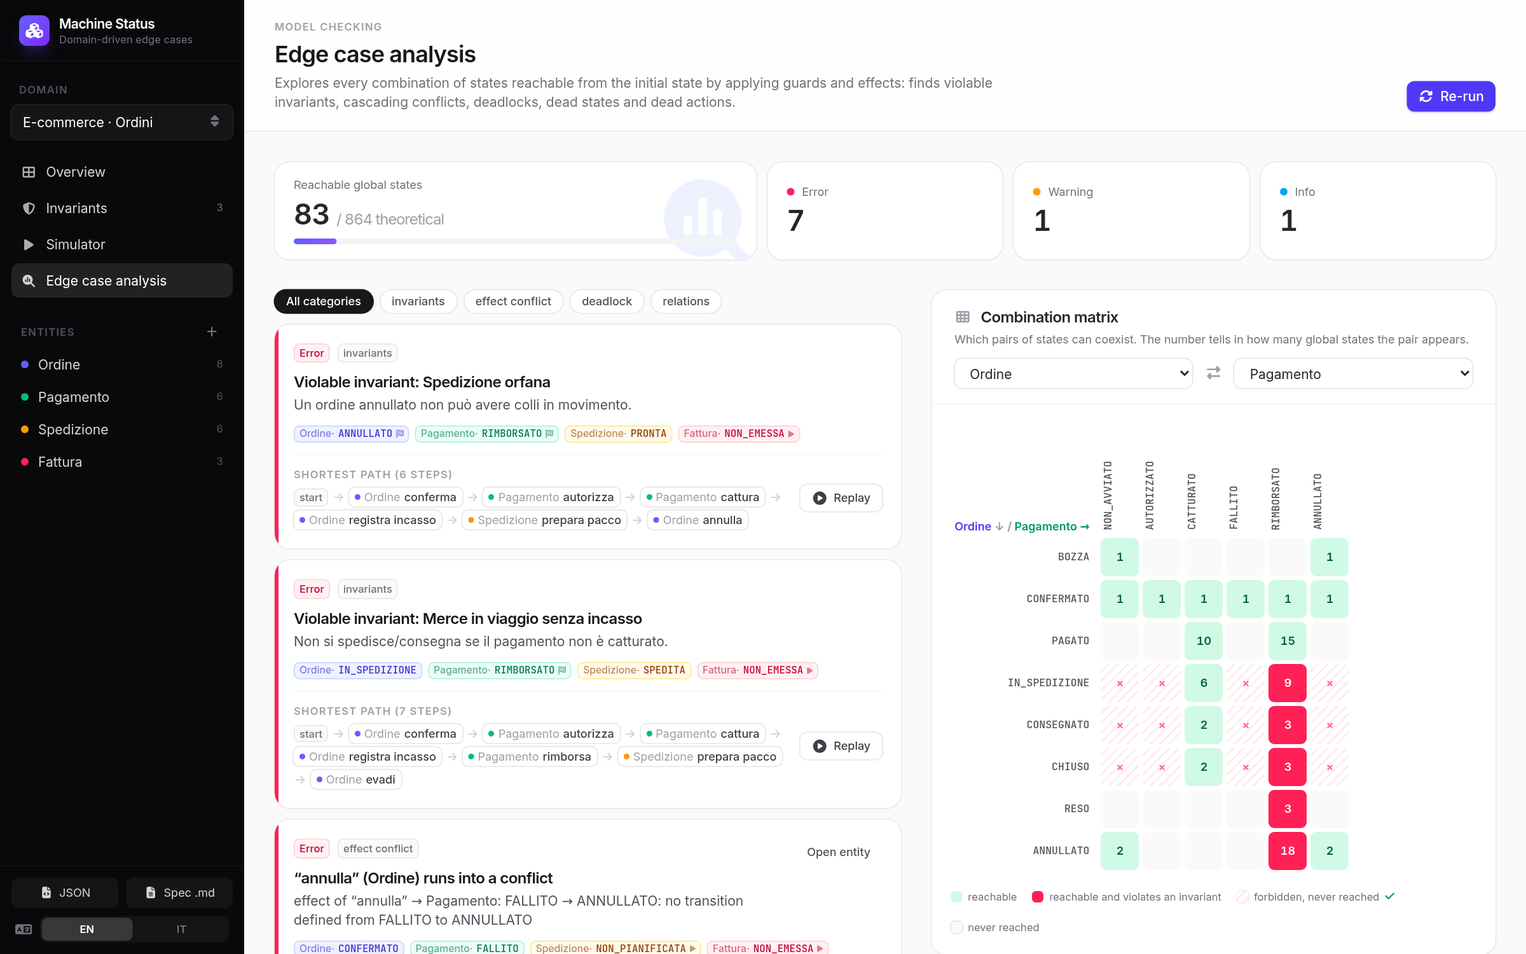
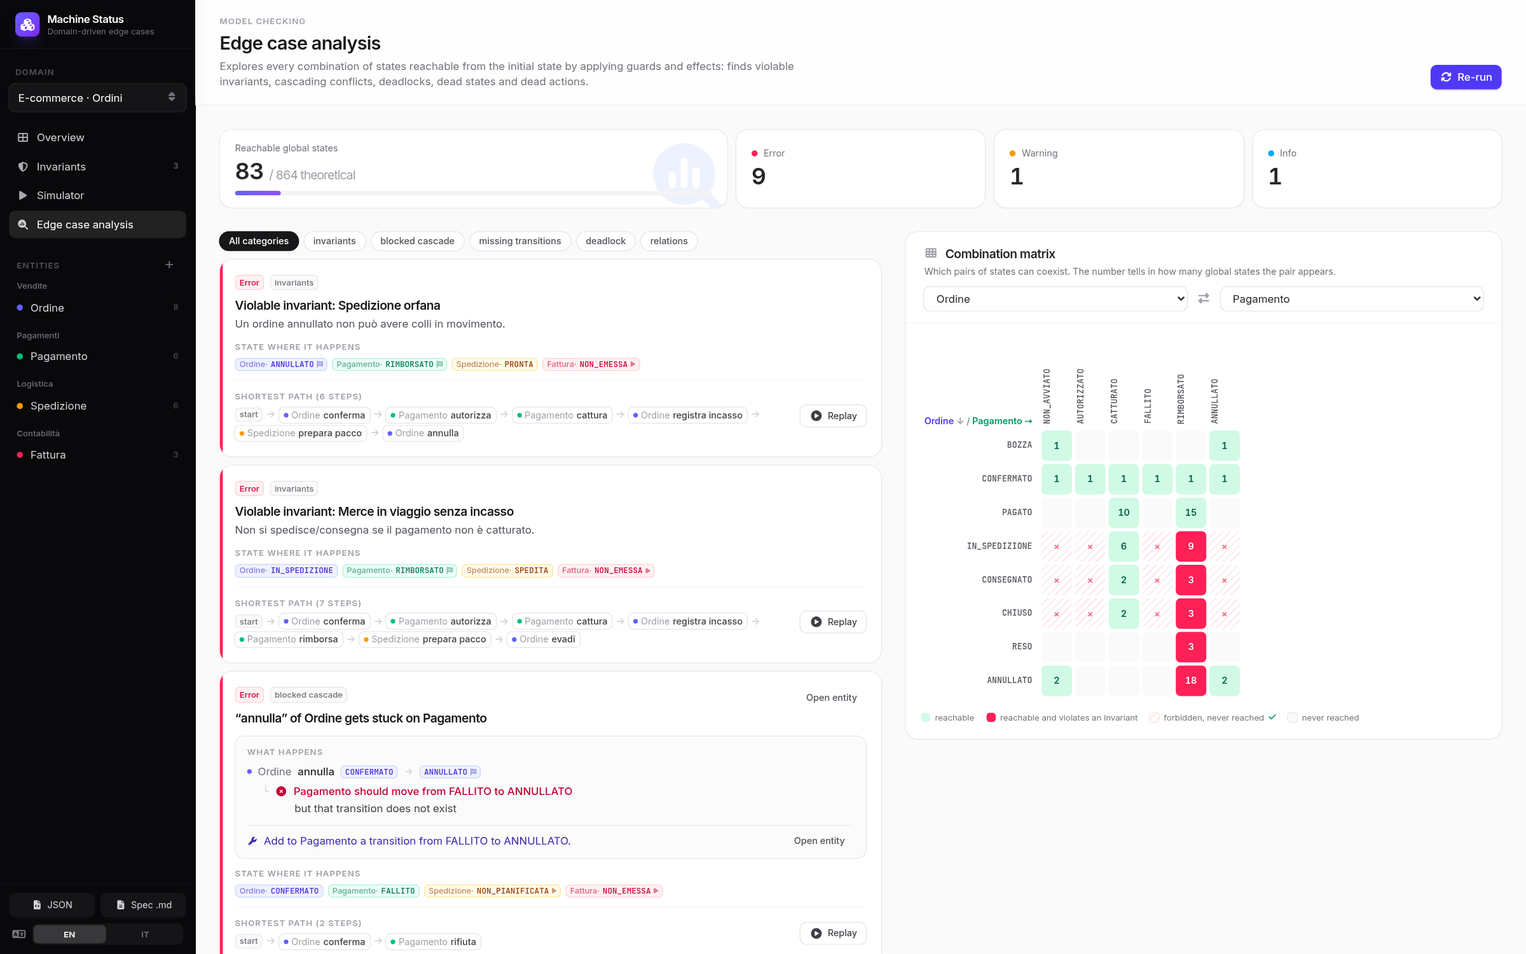
Clearer blocked-cascade messages with suggested fixes
Conflicts now read as a sentence (what should happen, but why it can't)
and carry a fix computed by the engine, naming the entity to change.
The entity page shows a loader while the analysis runs. Screenshots and
README updated.

diff --git a/frontend/src/views/EntityView.vue b/frontend/src/views/EntityView.vue
@@ -1,7 +1,7 @@
 <script setup>
 import { computed, ref, watch } from 'vue'
 import { useRoute, useRouter } from 'vue-router'
-import { store, api, reloadModel, mutate, entity, ename, sname, stateById, toast, isCreatable, goneStates, offStates } from '../store'
+import { store, api, reloadModel, mutate, entity, ename, sname, toast, isCreatable, goneStates, offStates } from '../store'
 import { pal, KINDS, COLORS, PALETTE } from '../colors'
 import { t } from '../i18n'
 import { stateDiagram, contextMap, neighborhood } from '../diagrams'
@@ -200,11 +200,19 @@ const incoming = computed(() => {
 
 // ---------- errori dell'analisi che riguardano questa entità ----------
 const errors = ref([])
-watch(() => [m.value, e.value?.id], async () => {
-  const id = e.value?.id
+const analyzing = ref(false)
+let analysisRun = 0
+watch(() => [m.value, e.value?.id], async ([, id], old) => {
   if (!id) return
-  const { issues } = await api.get(`/domains/${m.value.id}/analysis`)
-  if (id === e.value?.id) errors.value = issues.filter((i) => i.severity === 'error' && i.entity_ids.includes(id))
+  if (id !== old?.[1]) errors.value = [] // cambiando entità non restano gli errori di quella di prima
+  const run = ++analysisRun
+  analyzing.value = true
+  try {
+    const { issues } = await api.get(`/domains/${m.value.id}/analysis`)
+    if (run === analysisRun) errors.value = issues.filter((i) => i.severity === 'error' && i.entity_ids.includes(id))
+  } finally {
+    if (run === analysisRun) analyzing.value = false
+  }
 }, { immediate: true })
 // transizioni mancanti: effetti a cascata di altre entità che qui non trovano una transizione
 const missing = computed(() => errors.value.filter((i) => i.category === 'missing_transition' && i.entity_id === e.value.id))
@@ -217,13 +225,11 @@ const otherErrors = computed(() => {
     if (i.category === 'missing_transition') continue
     // conflitto dovuto a una transizione mancante qui: è già nella lista sopra
     if (i.conflict?.gap && missing.value.some((x) => sameGap(x.gap, i.conflict.gap))) continue
-    const text = i.category === 'deadlock' ? '' : plain(i.conflict ? `${i.conflict.what}: ${i.conflict.reason}` : i.detail)
+    const text = i.category === 'deadlock' ? '' : plain(i.conflict ? `${i.conflict.what}, ${i.conflict.reason}` : i.detail)
     const key = `${i.category}|${plain(i.title)}|${text}`
     const row = rows.get(key)
-    // la figlia è già in uno stato finale: si sistema sull'effetto del padre, con "ignora se già finale"
-    const skipFinal = !!i.conflict?.gap && !!stateById(i.conflict.gap.from)?.is_final
     if (row) row.count++
-    else rows.set(key, { key, category: i.category, title: plain(i.title), text, count: 1, fixAt: skipFinal ? i.entity_id : null })
+    else rows.set(key, { key, category: i.category, title: plain(i.title), text, count: 1, fix: i.conflict?.fix && { ...i.conflict.fix, text: plain(i.conflict.fix.text) } })
   }
   return [...rows.values()]
 })
@@ -325,11 +331,15 @@ const guardText = (g) =>
     <div v-else class="p-8 grid gap-6 xl:grid-cols-5">
       <div class="xl:col-span-3 space-y-6">
         <!-- ERRORI DELL'ANALISI SU QUESTA ENTITÀ -->
+        <div v-if="analyzing && !errorCount" class="card px-6 py-3.5 flex items-center gap-3 text-sm text-zinc-500">
+          <i class="fa-solid fa-circle-notch fa-spin fa-fw text-[14px] text-indigo-500" />{{ $t('entity.errors.loading') }}
+        </div>
         <section v-if="errorCount" class="card overflow-hidden ring-1 ring-rose-200">
           <div class="flex items-center gap-4 px-6 py-4 border-b border-rose-100 bg-rose-50/60">
             <div class="flex-1">
               <h2 class="font-semibold tracking-tight flex items-center gap-2 text-rose-900">
                 <i class="fa-solid fa-circle-exclamation fa-fw text-[13px] text-rose-500" />{{ $t('entity.errors.title', errorCount) }}
+                <i v-if="analyzing" class="fa-solid fa-circle-notch fa-spin fa-fw text-[12px] text-rose-400" :title="$t('entity.errors.loading')" />
               </h2>
               <p class="text-xs text-rose-800/80">{{ $t('entity.errors.hint') }}</p>
             </div>
@@ -371,13 +381,14 @@ const guardText = (g) =>
                 <span v-if="x.count > 1" class="text-xs text-zinc-400 tabular-nums">×{{ x.count }}</span>
               </div>
               <p v-if="x.text" class="text-xs text-zinc-500 mt-1">{{ x.text }}</p>
-              <p v-if="x.fixAt" class="text-xs text-indigo-700 mt-1 flex items-center gap-1.5 flex-wrap">
-                <i class="fa-solid fa-wrench fa-fw text-[10px]" />
-                <template v-if="x.fixAt === e.id">{{ $t('entity.errors.fixHere', { flag: $t('entity.effect.skipFinal') }) }}</template>
-                <i18n-t v-else scope="global" keypath="entity.errors.fixAt" tag="span">
-                  <template #entity><RouterLink :to="`/d/${m.id}/entity/${x.fixAt}`" class="font-medium underline">{{ ename(x.fixAt) }}</RouterLink></template>
-                  <template #flag>{{ $t('entity.effect.skipFinal') }}</template>
-                </i18n-t>
+              <p v-if="x.fix" class="text-xs text-indigo-700 mt-1 flex items-start gap-1.5">
+                <i class="fa-solid fa-wrench fa-fw text-[10px] mt-[3px] shrink-0" />
+                <span>
+                  {{ x.fix.text }}
+                  <RouterLink v-if="x.fix.entity_id !== e.id" :to="`/d/${m.id}/entity/${x.fix.entity_id}`" class="font-medium underline whitespace-nowrap">
+                    {{ $t('analysis.openEntity') }}
+                  </RouterLink>
+                </span>
               </p>
             </div>
           </div>

diff --git a/frontend/src/views/AnalysisView.vue b/frontend/src/views/AnalysisView.vue
@@ -187,6 +187,13 @@ watch(locale, () => { run(); loadMatrix() })
                 </ul>
               </div>
             </div>
+            <!-- come si risolve, e su quale entità -->
+            <div v-if="i.conflict.fix" class="mt-3 pt-2.5 border-t border-zinc-200/70 flex items-start gap-2 text-sm text-indigo-800">
+              <i class="fa-solid fa-wrench fa-fw text-[11px] mt-[5px] shrink-0" />
+              <span class="flex-1">{{ i.conflict.fix.text }}</span>
+              <RouterLink v-if="i.conflict.fix.entity_id !== i.entity_id" :to="`/d/${m.id}/entity/${i.conflict.fix.entity_id}`"
+                          class="btn-ghost !text-xs !py-0.5 shrink-0">{{ $t('analysis.openEntity') }}</RouterLink>
+            </div>
           </div>
           <div v-if="i.state" class="mt-3">
             <div class="eyebrow mb-1.5">{{ $t('analysis.reachedState') }}</div>

diff --git a/backend/app/engine.py b/backend/app/engine.py
@@ -163,14 +163,24 @@ class Engine:
     def rule_notes(self, t: dict) -> list[str]:
         return [g["description"] for g in t["guards"] if g["kind"] == "rule" and g["description"]]
 
-    def _conflict(self, t: dict, what: str, eid, depth: int, reason: str, details=(), gap=None) -> dict:
+    def _conflict(self, t: dict, what: str, eid, depth: int, reason: str, details=(), gap=None, fix=None) -> dict:
         """Conflitto strutturato: quale effetto di t (what) non riesce e perché (reason, details = guardie che bloccano).
-        gap: la transizione che manca all'entità coinvolta ({"from", "to"} oppure {"from", "action"})."""
-        effect = self.t("effect.label", action=t["action"], what=what)
+        gap: la transizione che manca all'entità coinvolta ({"from", "to"} oppure {"from", "action"}).
+        fix: (chiave, entità su cui intervenire, parametri) del suggerimento; con un gap si ricava da solo."""
+        if gap and fix is None:
+            src = self.sname(gap["from"])
+            if self.is_final(gap["from"]):
+                # l'entità è già conclusa: non le manca nulla, è l'effetto che non dovrebbe toccarla
+                fix = ("fix.skip_final", t["entity_id"], {"action": t["action"]})
+            elif gap.get("action"):
+                fix = ("fix.add_action", eid, {"name": gap["action"], "src": src})
+            else:
+                fix = ("fix.add_transition", eid, {"src": src, "dst": self.sname(gap["to"])})
         details = list(details)
-        message = self.t("effect.conflict", effect=effect, reason=reason) + (f" — {'; '.join(details)}" if details else "")
+        message = self.t("effect.conflict", action=t["action"], what=what, reason=reason) + (f" — {'; '.join(details)}" if details else "")
         return {"message": message, "trigger_id": t["id"], "entity_id": eid, "depth": depth + 1,
-                "what": what, "reason": reason, "details": details, "gap": gap}
+                "what": what, "reason": reason, "details": details, "gap": gap,
+                "fix": fix and {"text": self.t(fix[0], entity=self.ename(fix[1]), **fix[2]), "entity_id": fix[1]}}
 
     def fire(self, t: dict, state: dict, depth: int = 0, chain: frozenset = frozenset()):
         """Esegue t e propaga gli effetti. Ritorna (nuovo_stato, passi, conflitti); i conflitti sono dict (vedi _conflict)."""
@@ -213,8 +223,7 @@ class Engine:
             forced = {"transition_id": None, "entity_id": eid, "action": self.t("step.forced"),
                       "from": cur, "to": target, "depth": depth + 1, "forced": True}
             if not cands:
-                conflicts.append(self._conflict(t, what, eid, depth, self.t("effect.no_transition", src=self.sname(cur), dst=self.sname(target)),
-                                                gap={"from": cur, "to": target}))
+                conflicts.append(self._conflict(t, what, eid, depth, self.t("effect.no_transition"), gap={"from": cur, "to": target}))
                 new[eid] = target
                 steps.append(forced)
                 continue
@@ -226,12 +235,14 @@ class Engine:
                     break
                 why += f
             if chosen is None:
-                conflicts.append(self._conflict(t, what, eid, depth, self.t("effect.blocked", action=cands[0]["action"]), why))
+                conflicts.append(self._conflict(t, what, eid, depth, self.t("effect.blocked", action=cands[0]["action"]), why,
+                                                fix=("fix.guard", eid, {"name": cands[0]["action"]})))
                 new[eid] = target
                 steps.append(forced)
                 continue
             if chosen["id"] in chain or depth >= MAX_CASCADE_DEPTH:
-                conflicts.append(self._conflict(t, what, eid, depth, self.t("effect.cycle_on", action=chosen["action"])))
+                conflicts.append(self._conflict(t, what, eid, depth, self.t("effect.cycle_on", action=chosen["action"]),
+                                                fix=("fix.cycle", eid, {"action": chosen["action"]})))
                 continue
             new, sub_steps, sub_conf = self.fire(chosen, new, depth + 1, chain)
             steps += sub_steps
@@ -263,12 +274,14 @@ class Engine:
             else:
                 ok.append(c)
         if not ok:
-            return state, [], [self._conflict(t, what, eid, depth, self.t("effect.blocked", action=name), why)]
+            return state, [], [self._conflict(t, what, eid, depth, self.t("effect.blocked", action=name), why,
+                                              fix=("fix.guard", eid, {"name": name}))]
         if len(ok) > 1:
             names = ", ".join(self.sname(c["to_state_id"]) for c in ok)
-            return state, [], [self._conflict(t, what, eid, depth, self.t("effect.action_ambiguous", state=self.sname(cur), targets=names))]
+            return state, [], [self._conflict(t, what, eid, depth, self.t("effect.action_ambiguous", state=self.sname(cur), targets=names),
+                                              fix=("fix.ambiguous", eid, {}))]
         if ok[0]["id"] in chain or depth >= MAX_CASCADE_DEPTH:
-            return state, [], [self._conflict(t, what, eid, depth, self.t("effect.cycle"))]
+            return state, [], [self._conflict(t, what, eid, depth, self.t("effect.cycle"), fix=("fix.cycle", eid, {"action": name}))]
         return self.fire(ok[0], state, depth + 1, chain)
 
     def _fire_creation(self, t: dict, eff: dict, state: dict, depth: int, chain: frozenset):
@@ -281,7 +294,7 @@ class Engine:
                              "from": state[eid], "to": state[eid], "depth": depth + 1, "skipped": True}], []
         creations = [c for c in self.entity[eid]["transitions"] if is_create(c)]
         if not creations:
-            return state, [], [self._conflict(t, what, eid, depth, self.t("effect.no_creations"))]
+            return state, [], [self._conflict(t, what, eid, depth, self.t("effect.no_creations"), fix=("fix.add_creation", eid, {}))]
         ok, why = [], []
         for c in creations:
             f = self.guard_failures(c, state)
@@ -290,12 +303,15 @@ class Engine:
             else:
                 ok.append(c)
         if not ok:
-            return state, [], [self._conflict(t, what, eid, depth, self.t("effect.no_creation_possible"), why)]
+            return state, [], [self._conflict(t, what, eid, depth, self.t("effect.no_creation_possible"), why,
+                                              fix=("fix.guard", eid, {"name": creations[0]["action"]}))]
         if len(ok) > 1:
             names = ", ".join(f"{self.t('q', x=c['action'])} → {self.sname(c['to_state_id'])}" for c in ok)
-            return state, [], [self._conflict(t, what, eid, depth, self.t("effect.creations_ambiguous", options=names))]
+            return state, [], [self._conflict(t, what, eid, depth, self.t("effect.creations_ambiguous", options=names),
+                                              fix=("fix.ambiguous", eid, {}))]
         if ok[0]["id"] in chain or depth >= MAX_CASCADE_DEPTH:
-            return state, [], [self._conflict(t, what, eid, depth, self.t("effect.cycle_on", action=ok[0]["action"]))]
+            return state, [], [self._conflict(t, what, eid, depth, self.t("effect.cycle_on", action=ok[0]["action"]),
+                                              fix=("fix.cycle", eid, {"action": ok[0]["action"]}))]
         return self.fire(ok[0], state, depth + 1, chain)
 
     def triggers(self, t: dict) -> list[dict]:
@@ -631,8 +647,10 @@ class Engine:
             t = dyn.transition[c["transition_id"]]
             # passi davvero eseguiti prima del conflitto (senza quelli forzati o saltati) e il punto in cui si blocca
             done = [x for x in c["steps"] if not x.get("forced") and not x.get("skipped")]
+            if c["conflict"].get("fix"):
+                c["conflict"]["fix"]["entity_id"] = base(c["conflict"]["fix"]["entity_id"])
             add("error", "effect_conflict", "a.conflict", detail=c["message"],
-                params={"action": t["action"], "entity": dyn.ename(t["entity_id"])},
+                params={"action": t["action"], "entity": dyn.ename(t["entity_id"]), "target": dyn.ename(c["conflict"]["entity_id"])},
                 transition_id=t.get("base_id", t["id"]), entity_id=base(t["entity_id"]), state=c["state"], trace=c["trace"],
                 conflict=c["conflict"], cascade=done, entity_ids=[base(t["entity_id"]), base(c["conflict"]["entity_id"])])
         issues += self._missing_transitions(dyn, ex["conflicts"], labels)

diff --git a/backend/app/i18n.py b/backend/app/i18n.py
@@ -25,20 +25,27 @@ MESSAGES = {
         "step.missing_action": "(non esiste, «{action}» ignorata)",
         "step.already_exists": "(esiste già, nuova istanza non simulata)",
         # effetti a cascata
-        "effect.label": "effetto «{action}» → {what}",
-        "effect.conflict": "{effect}: {reason}",
-        "effect.what_state": "{entity} deve passare da {src} a {dst}",
-        "effect.what_action": "{entity} deve eseguire «{name}»",
-        "effect.what_create": "{entity} deve nascere",
-        "effect.no_transition": "nessuna transizione definita da {src} a {dst}",
-        "effect.blocked": "«{action}» è bloccata",
-        "effect.cycle_on": "ciclo di effetti a cascata su «{action}»",
-        "effect.cycle": "ciclo di effetti a cascata",
-        "effect.action_unavailable": "da {state} l'azione non è disponibile",
-        "effect.action_ambiguous": "da {state} porta in più stati ({targets}): ambiguo",
-        "effect.no_creations": "non ha azioni di creazione",
-        "effect.no_creation_possible": "nessuna creazione è possibile",
-        "effect.creations_ambiguous": "più creazioni sono possibili insieme ({options}): stato di nascita ambiguo",
+        "effect.conflict": "«{action}»: {what}, {reason}",
+        "effect.what_state": "{entity} dovrebbe passare da {src} a {dst}",
+        "effect.what_action": "{entity} dovrebbe eseguire «{name}»",
+        "effect.what_create": "{entity} dovrebbe nascere",
+        "effect.no_transition": "ma questa transizione non esiste",
+        "effect.blocked": "ma le guardie di «{action}» lo impediscono",
+        "effect.cycle_on": "ma «{action}» rimette in moto la stessa cascata all'infinito",
+        "effect.cycle": "ma gli effetti si richiamano a vicenda all'infinito",
+        "effect.action_unavailable": "ma da {state} quell'azione non esiste",
+        "effect.action_ambiguous": "ma da {state} quell'azione porta in più stati ({targets}) e non si sa quale scegliere",
+        "effect.no_creations": "ma non ha azioni di creazione",
+        "effect.no_creation_possible": "ma le guardie impediscono ogni creazione",
+        "effect.creations_ambiguous": "ma sono possibili più creazioni insieme ({options}) e non si sa in che stato nasce",
+        # come si risolve un conflitto
+        "fix.skip_final": "Su {entity}, attiva «ignora se già finale» sull'effetto di «{action}»: l'entità coinvolta è già conclusa e va lasciata com'è.",
+        "fix.add_transition": "Aggiungi a {entity} una transizione da {src} a {dst}.",
+        "fix.add_action": "Su {entity}, fai partire «{name}» anche da {src}.",
+        "fix.guard": "Rivedi le guardie di «{name}» su {entity}: durante la cascata vedono gli stati già aggiornati dalle azioni precedenti.",
+        "fix.cycle": "Togli uno degli effetti che si richiamano a vicenda, a partire da «{action}» su {entity}.",
+        "fix.ambiguous": "Su {entity}, rendi le guardie delle azioni alternative mutuamente esclusive.",
+        "fix.add_creation": "Aggiungi a {entity} un'azione di creazione.",
         # simulatore
         "eval.exists": "{entity} esiste già",
         "eval.is_in": "{entity} è in {state}",
@@ -83,7 +90,7 @@ MESSAGES = {
         "a.broken_invariant.detail": "Una condizione usa uno stato eliminato dal modello (appare come ∅): l'invariante non controlla quello che ci si aspetta. Modificala e scegli di nuovo gli stati.",
         "a.violable.title": "Invariante violabile: {name}",
         "a.violable.detail": "Esiste una sequenza di azioni che porta a una combinazione di stati vietata.",
-        "a.conflict.title": "«{action}» ({entity}) va in conflitto",
+        "a.conflict.title": "«{action}» di {entity} si blocca su {target}",
         "a.missing_transition.title": "{entity}: manca la transizione da {src} a {dst}",
         "a.missing_transition.detail": "Serve agli effetti a cascata di {by}.",
         "a.missing_action.title": "{entity}: «{action}» non parte da {src}",
@@ -177,20 +184,26 @@ MESSAGES = {
         "step.forced": "(forced)",
         "step.missing_action": "(does not exist, “{action}” ignored)",
         "step.already_exists": "(already exists, new instance not simulated)",
-        "effect.label": "effect of “{action}” → {what}",
-        "effect.conflict": "{effect}: {reason}",
-        "effect.what_state": "{entity} must move from {src} to {dst}",
-        "effect.what_action": "{entity} must run “{name}”",
-        "effect.what_create": "{entity} must be created",
-        "effect.no_transition": "no transition defined from {src} to {dst}",
-        "effect.blocked": "“{action}” is blocked",
-        "effect.cycle_on": "cascading effect cycle on “{action}”",
-        "effect.cycle": "cascading effect cycle",
-        "effect.action_unavailable": "the action is not available from {state}",
-        "effect.action_ambiguous": "from {state} it leads to several states ({targets}): ambiguous",
-        "effect.no_creations": "it has no creation actions",
-        "effect.no_creation_possible": "no creation is possible",
-        "effect.creations_ambiguous": "several creations are possible at once ({options}): ambiguous initial state",
+        "effect.conflict": "“{action}”: {what}, {reason}",
+        "effect.what_state": "{entity} should move from {src} to {dst}",
+        "effect.what_action": "{entity} should run “{name}”",
+        "effect.what_create": "{entity} should be created",
+        "effect.no_transition": "but that transition does not exist",
+        "effect.blocked": "but the guards of “{action}” prevent it",
+        "effect.cycle_on": "but “{action}” sets off the same cascade forever",
+        "effect.cycle": "but the effects keep triggering each other forever",
+        "effect.action_unavailable": "but that action does not exist from {state}",
+        "effect.action_ambiguous": "but from {state} that action leads to several states ({targets}) and it is unclear which one",
+        "effect.no_creations": "but it has no creation actions",
+        "effect.no_creation_possible": "but the guards prevent every creation",
+        "effect.creations_ambiguous": "but several creations are possible at once ({options}) and its initial state is unclear",
+        "fix.skip_final": "On {entity}, turn on “skip if already final” for the effect of “{action}”: the entity involved is already concluded and should be left as is.",
+        "fix.add_transition": "Add to {entity} a transition from {src} to {dst}.",
+        "fix.add_action": "On {entity}, let “{name}” also start from {src}.",
+        "fix.guard": "Review the guards of “{name}” on {entity}: during the cascade they see the states already updated by the previous actions.",
+        "fix.cycle": "Remove one of the effects that trigger each other, starting from “{action}” on {entity}.",
+        "fix.ambiguous": "On {entity}, make the guards of the alternative actions mutually exclusive.",
+        "fix.add_creation": "Add a creation action to {entity}.",
         "eval.exists": "{entity} already exists",
         "eval.is_in": "{entity} is in {state}",
         "eval.cascade_only": "Happens only as a cascade, as an effect of: {via}",
@@ -233,7 +246,7 @@ MESSAGES = {
         "a.broken_invariant.detail": "A condition uses a state removed from the model (shown as ∅): the invariant doesn't check what you expect. Edit it and pick the states again.",
         "a.violable.title": "Violable invariant: {name}",
         "a.violable.detail": "A sequence of actions leads to a forbidden combination of states.",
-        "a.conflict.title": "“{action}” ({entity}) runs into a conflict",
+        "a.conflict.title": "“{action}” of {entity} gets stuck on {target}",
         "a.missing_transition.title": "{entity}: no transition from {src} to {dst}",
         "a.missing_transition.detail": "Needed by the cascading effects of {by}.",
         "a.missing_action.title": "{entity}: “{action}” does not start from {src}",

diff --git a/README.md b/README.md
@@ -18,6 +18,8 @@ A context map of your entities grouped by bounded context, with declared relatio
 ### Entity editor
 Define states (initial, final; active, off or deleted), creation actions, transitions with guards and cascading effects, and the entity's relations with what each composition implies. A live state diagram, a *states × actions* table that exposes unhandled combinations, and a list of everyone who depends on the entity.
 
+The errors the analysis finds on the entity are shown right on top, each with what to fix and where: transitions that other entities' cascades need and the entity lacks can be added in one click.
+
 ![Entity editor](docs/screenshots/entity.png)
 
 ### Simulator
@@ -29,7 +31,8 @@ Set any combination of states, even ones that "shouldn't happen", and see which 
 A breadth-first model checker over the global state space (up to 300,000 combinations, cached until the model changes). It reports:
 
 - **Violable invariants**: a sequence of actions reaches a forbidden combination
-- **Effect conflicts**: a cascade asks an entity for a transition it can't make
+- **Blocked cascades**: a cascade asks an entity for a transition it can't make, with a suggested fix
+- **Missing transitions**: grouped per entity, with the actions that need them
 - **Deadlocks**: non-final entities with no enabled action
 - **Unreachable states** and **dead actions**
 - **Non-determinism**: the same action leading to different states
